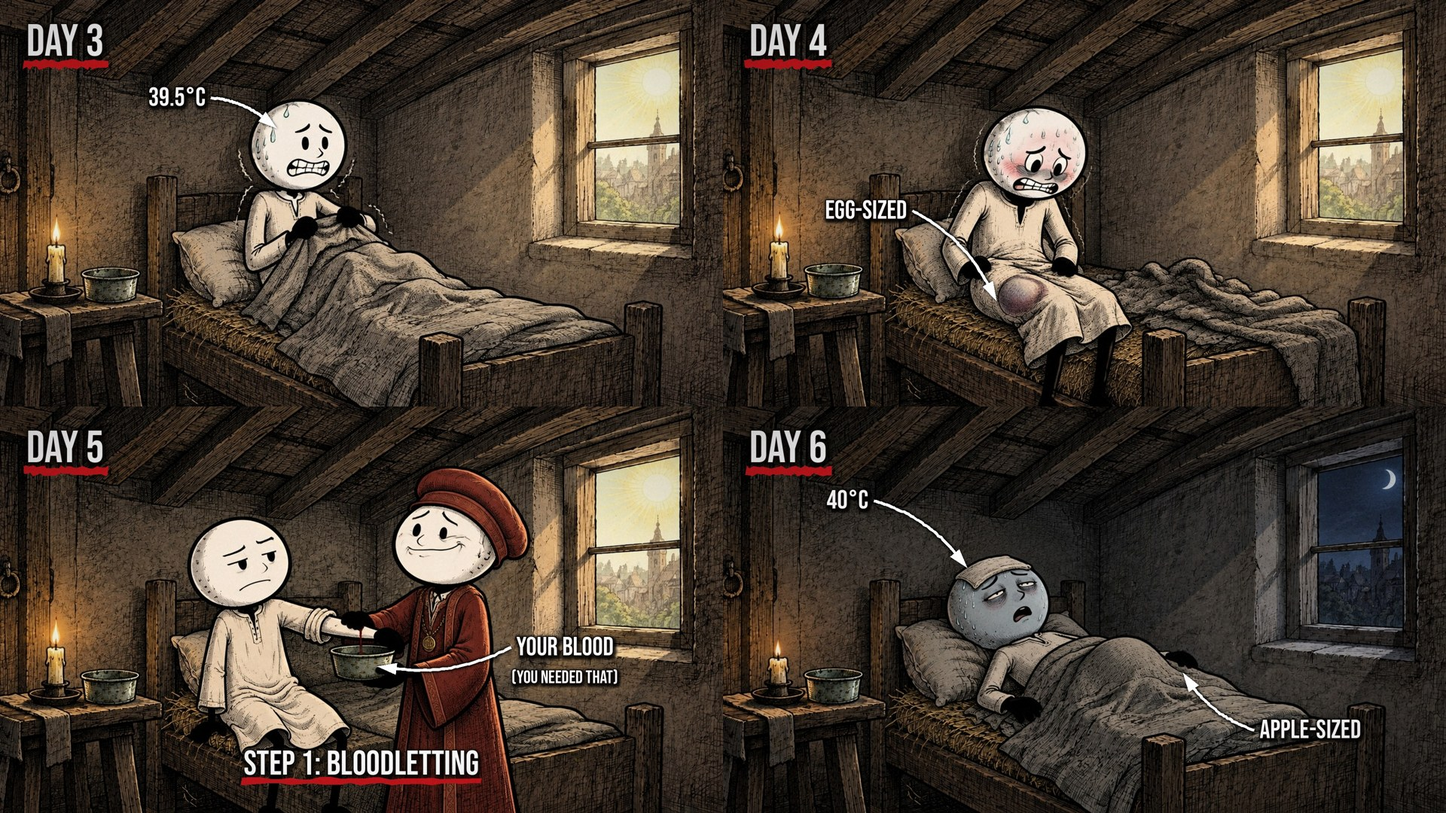
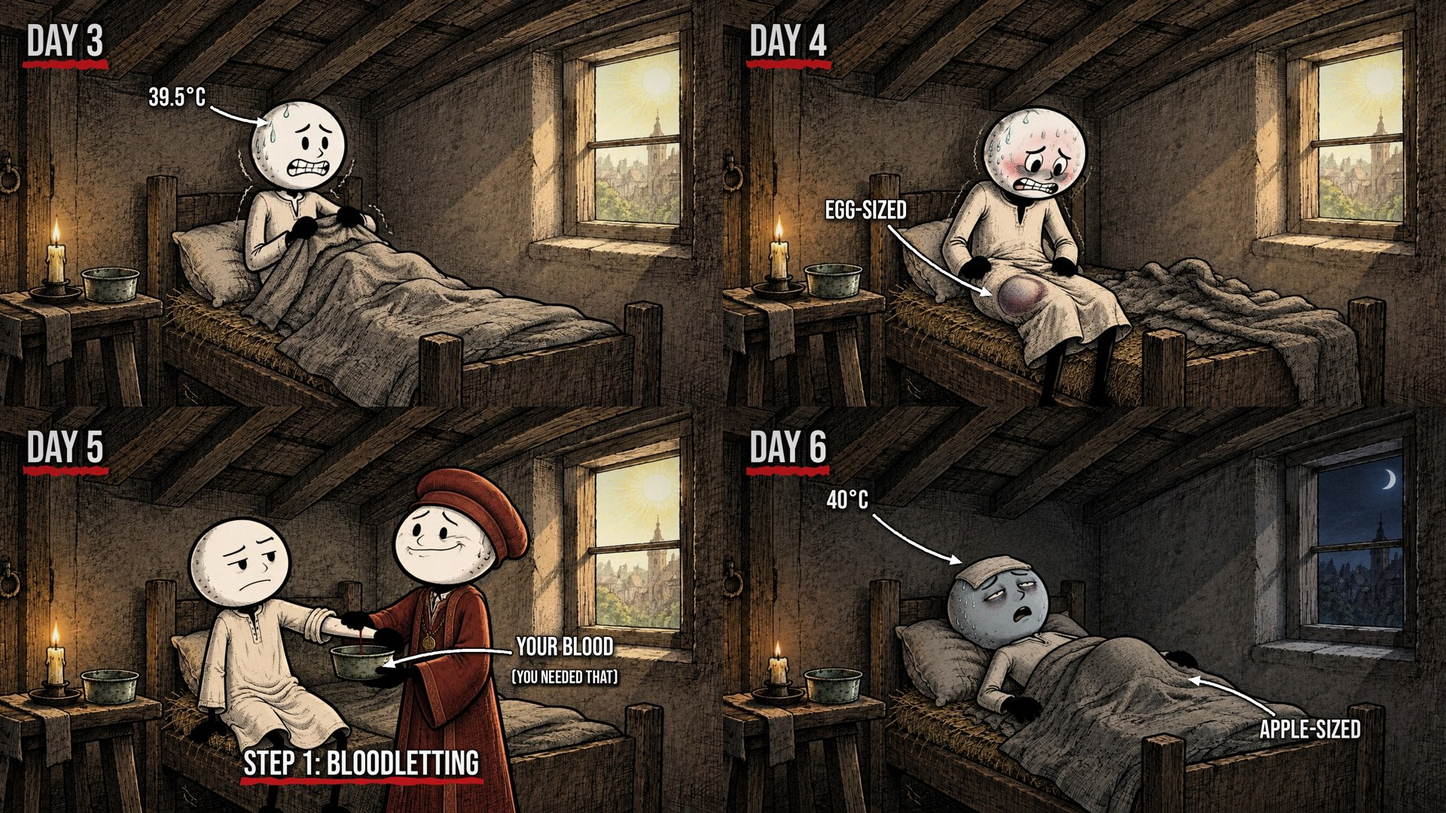
Montage tool: outlined arrows that start at the label edge and point straight at the target
Claude-Session: https://claude.ai/code/session_01TNc2K2L4Uw74QswdZfAtfS

diff --git a/channel/diseases/tools/build_whatif.py b/channel/diseases/tools/build_whatif.py
@@ -82,25 +82,31 @@ def draw_item(it, k):
             L = Image.alpha_composite(S.filter(ImageFilter.GaussianBlur(3)), L); d = ImageDraw.Draw(L)
             d.text((x, y), txt, font=f, anchor='mm', fill=(255, 255, 255, 255), stroke_width=max(2, size // 30), stroke_fill=(15, 10, 8, 255)); return L
         tx, ty = it['tx'], it['ty']
-        bb = d.textbbox((x, y), txt, font=f, anchor='mm')
-        # arrow starts at the label edge nearest the target, bends a little, ends just short of the target
-        sx = bb[2] + 14 if tx > bb[2] else (bb[0] - 14 if tx < bb[0] else x); sy = y if bb[0] - 14 <= sx <= bb[2] + 14 and (sx == bb[2] + 14 or sx == bb[0] - 14) else (bb[3] + 12 if ty > y else bb[1] - 12)
-        if sx == x: sy = bb[3] + 12 if ty > y else bb[1] - 12
-        mx, my = (sx + tx) / 2 + it.get('bend', 0.18) * (ty - sy), (sy + ty) / 2 - it.get('bend', 0.18) * (tx - sx)
-        n = 40; p_ = min(1, k if it.get('anim', True) else 1); m = max(2, int(n * p_))
-        rr = np.random.default_rng(abs(hash(txt)) % 2 ** 32)
-        pts = [((1 - u) ** 2 * sx + 2 * (1 - u) * u * mx + u * u * tx + rr.uniform(-1.2, 1.2), (1 - u) ** 2 * sy + 2 * (1 - u) * u * my + u * u * ty + rr.uniform(-1.2, 1.2)) for u in [i / n * .94 for i in range(m + 1)]]
-        col = (255, 255, 255, 255)
-        S = Image.new('RGBA', (W, H), (0, 0, 0, 0)); sd = ImageDraw.Draw(S)
-        sd.line(pts, fill=(0, 0, 0, 220), width=15, joint='curve'); sd.text((x + 3, y + 4), txt, font=f, anchor='mm', fill=(0, 0, 0, 220), stroke_width=max(6, size // 9), stroke_fill=(0, 0, 0, 220))
-        if p_ >= 1:
-            ex, ey = pts[-1]; px, py = pts[-4]; ang = math.atan2(ey - py, ex - px)
-            head = [(ex + 30 * math.cos(ang), ey + 30 * math.sin(ang)), (ex + 26 * math.cos(ang + 2.5), ey + 26 * math.sin(ang + 2.5)), (ex + 26 * math.cos(ang - 2.5), ey + 26 * math.sin(ang - 2.5))]
-            sd.polygon(head, fill=(0, 0, 0, 220), outline=(0, 0, 0, 220), width=8)
-        L = Image.alpha_composite(S.filter(ImageFilter.GaussianBlur(3)), L); d = ImageDraw.Draw(L)
-        d.line(pts, fill=col, width=8, joint='curve')
-        if p_ >= 1: d.polygon(head, fill=col)
-        d.text((x, y), txt, font=f, anchor='mm', fill=col, stroke_width=max(2, size // 30), stroke_fill=(15, 10, 8, 255))
+        bb = d.textbbox((x, y), txt, font=f, anchor='mm'); pad = 16
+        # start where the straight line from the label centre to the target leaves the (padded) label box
+        dx, dy = tx - x, ty - y; hw, hh = (bb[2] - bb[0]) / 2 + pad, (bb[3] - bb[1]) / 2 + pad
+        sc = min(hw / abs(dx) if dx else 1e9, hh / abs(dy) if dy else 1e9); sx, sy = x + dx * sc, y + dy * sc
+        # stop a little short of the target so the tip does not cover the detail
+        ln = math.hypot(tx - sx, ty - sy) or 1; ex, ey = tx - (tx - sx) / ln * 14, ty - (ty - sy) / ln * 14
+        bend = it.get('bend', 0.12)   # gentle bow; sign flips the side
+        mx, my = (sx + ex) / 2 - bend * (ey - sy), (sy + ey) / 2 + bend * (ex - sx)
+        n = 40; p_ = min(1, k); m = max(2, int(n * p_))
+        pts = [((1 - u) ** 2 * sx + 2 * (1 - u) * u * mx + u * u * ex, (1 - u) ** 2 * sy + 2 * (1 - u) * u * my + u * u * ey) for u in [i / n for i in range(m + 1)]]
+        ang = math.atan2(ey - my, ex - mx)   # tangent at the end of the curve
+        hx, hy = ex + 8 * math.cos(ang), ey + 8 * math.sin(ang)
+        head = [(hx, hy), (hx - 34 * math.cos(ang - .42), hy - 34 * math.sin(ang - .42)), (hx - 34 * math.cos(ang + .42), hy - 34 * math.sin(ang + .42))]
+        ink, white = (12, 9, 7, 255), (255, 255, 255, 255)
+        S = Image.new('RGBA', (W, H), (0, 0, 0, 0)); sd = ImageDraw.Draw(S)   # soft drop shadow
+        sd.line([(px + 3, py + 4) for px, py in pts], fill=(0, 0, 0, 150), width=18, joint='curve')
+        sd.text((x + 3, y + 4), txt, font=f, anchor='mm', fill=(0, 0, 0, 150), stroke_width=max(6, size // 9), stroke_fill=(0, 0, 0, 150))
+        L = Image.alpha_composite(S.filter(ImageFilter.GaussianBlur(4)), L); d = ImageDraw.Draw(L)
+        d.line(pts, fill=ink, width=17, joint='curve')                     # dark outline
+        for px, py in (pts[0],): d.ellipse((px - 8, py - 8, px + 8, py + 8), fill=ink)
+        if p_ >= 1: d.polygon(head, fill=ink, outline=ink, width=9)
+        d.line(pts, fill=white, width=8, joint='curve')                    # white core
+        for px, py in (pts[0],): d.ellipse((px - 4, py - 4, px + 4, py + 4), fill=white)
+        if p_ >= 1: d.polygon(head, fill=white)
+        d.text((x, y), txt, font=f, anchor='mm', fill=white, stroke_width=max(3, size // 22), stroke_fill=ink)
         return L
     if st == 'strike':   # hand-drawn red marker line crossing out a caption; k = drawing progress 0..1
         txt = it['text'].upper(); size = it.get('size', 92); f = font(size)
